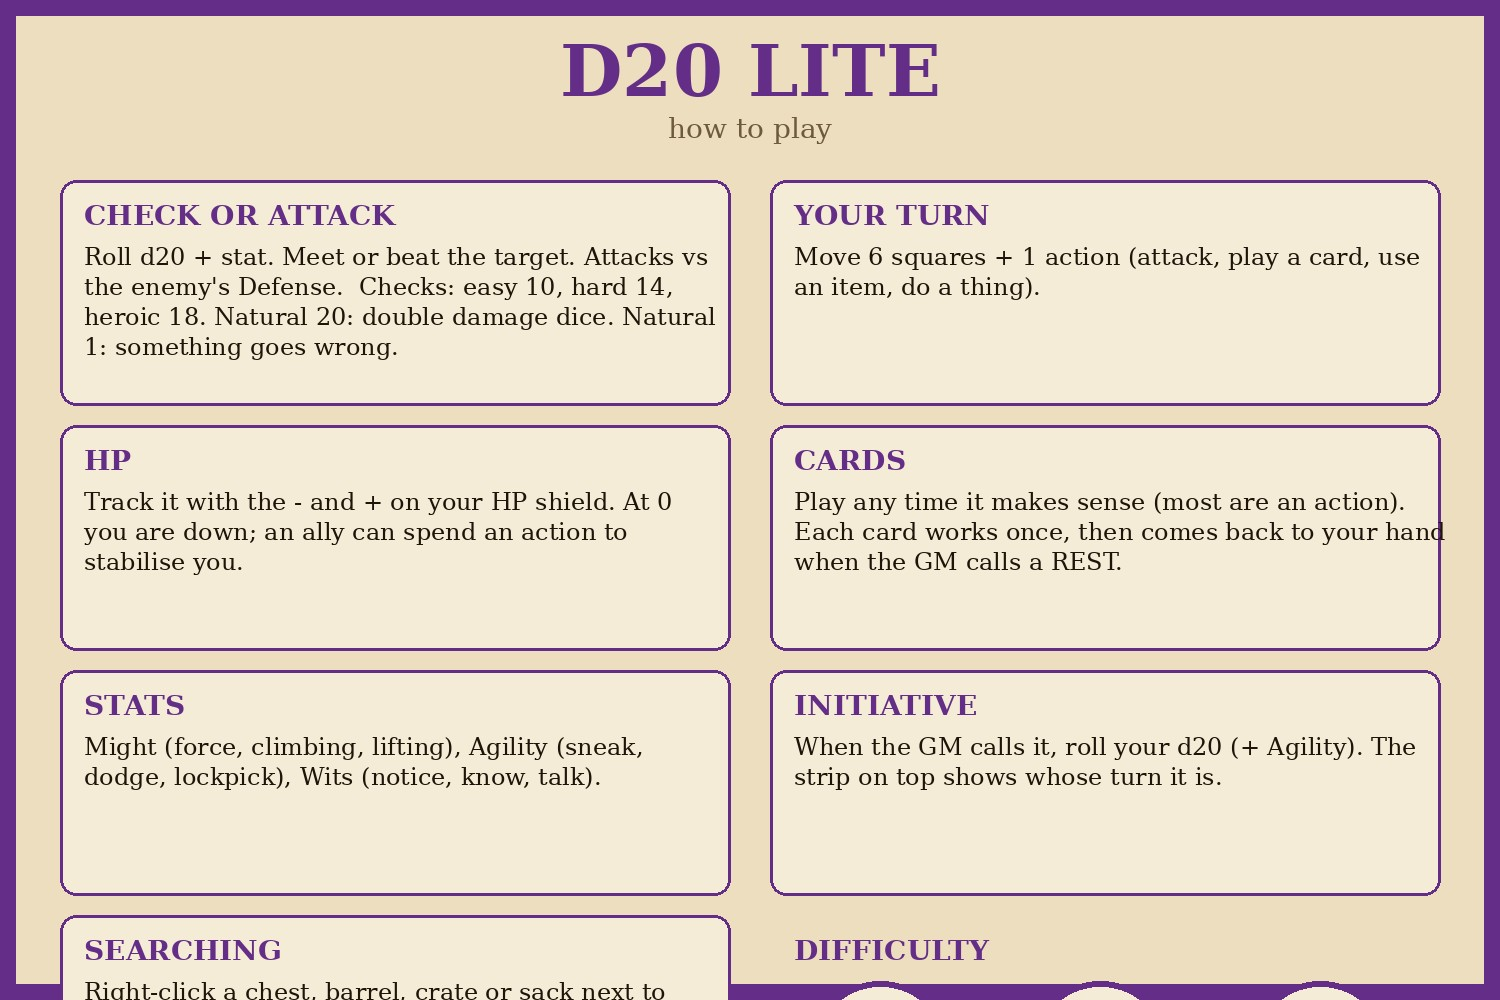
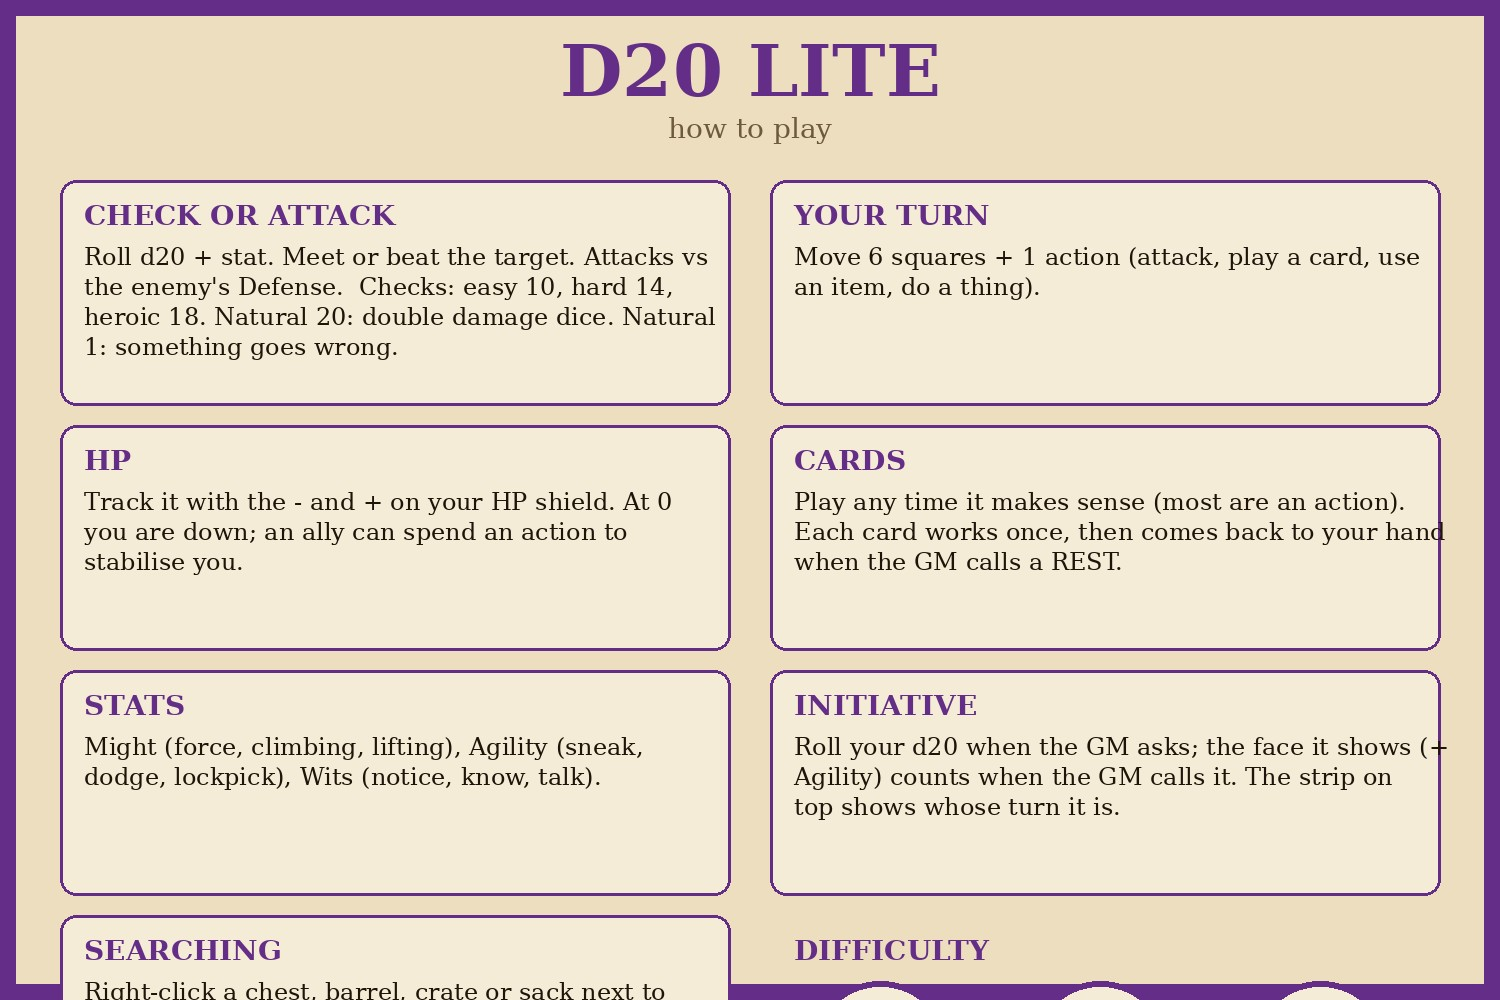
Initiative reads each hero's d20 as it lies

Changed region(s): [[0.5213, 0.713, 0.9507, 0.837]]

diff --git a/test_lua.py b/test_lua.py
@@ -509,9 +509,11 @@ assert (g.looked["Red"].position[1], g.looked["Red"].position[3]) == (0, 0)   # 
 # turn order: one roll per NPC kind ("Giant x2"), seated heroes rolled for when they don't roll in time
 for o in objs:
     o.tags["hidden"] = None
+red_d20 = next(iter(g.getObjectsWithTag("d20_Red").values())); red_d20.value = 17
 c.initiative()
 strip = g.UIattr["turnsText.value"]
-assert g.UIattr["turns.active"] == "true" and "Giant x2" in strip and to_py(c.DATA.heroes)["Red"]["short"] in strip and "waiting" not in strip, strip
+assert to_py(c.DATA.heroes)["Red"]["short"] + " (%d)" % (17 + to_py(c.DATA.heroes)["Red"]["agility"]) in strip, strip
+assert g.UIattr["turns.active"] == "true" and "Giant x2" in strip and to_py(c.DATA.heroes)["Red"]["short"] in strip, strip
 c.nextTurn(); assert "<b>" in g.UIattr["turnsText.value"] and any(o.lit for o in g.getObjects().values())
 c.endFight(); assert g.UIattr["turns.active"] == "false"
 c.setScene(2)

diff --git a/build.py b/build.py
@@ -513,7 +513,7 @@ def hero_objects(h, n, base):
         sheet,
         obj("Custom_Model", tf(), GUID=guid(c, "hp"), Nickname=f"{h['name']} HP", Locked=False, Tags=["kit", f"hp_{c}"],
             CustomMesh=mesh(base, "hp_plaque"), grid={"role": "hp", "color": c, "max": h["hp"]}),
-        obj("Die_20", tf(), GUID=guid(c, "d20"), Tags=["kit"], ColorDiffuse=colour, grid={"role": "d20", "color": c}),
+        obj("Die_20", tf(), GUID=guid(c, "d20"), Tags=["kit", f"d20_{c}"], ColorDiffuse=colour, grid={"role": "d20", "color": c}),
         obj("Deck", tf(rz=180.0), GUID=guid(c, "deck"), Nickname=f"{h['name']} cards", DeckIDs=ids,
             CustomDeck={str(n + 1): cdeck}, ContainedObjects=cards, Tags=["kit", f"card_{c}"], Hands=True,
             grid={"role": "deck", "color": c}),

diff --git a/content.py b/content.py
@@ -130,7 +130,8 @@ HP: track it with the - and + on your HP shield. At 0 you are down; an ally can 
 Cards: play any time it makes sense (most are an action). Each card works once,
   then comes back to your hand when the GM calls a REST.
 Stats: Might (force, climbing, lifting), Agility (sneak, dodge, lockpick), Wits (notice, know, talk).
-Initiative: when the GM calls it, roll your d20 (+ Agility). The strip on top shows whose turn it is.
+Initiative: roll your d20 when the GM asks; the face it shows (+ Agility) counts when the GM calls it.
+  The strip on top shows whose turn it is.
 Searching: right-click a chest, barrel, crate or sack next to your hero > Search. Once each."""
 
 # ---------------------------------------------------------------- npcs

diff --git a/GM_GUIDE.md b/GM_GUIDE.md
@@ -26,7 +26,8 @@ HP: track it with the - and + on your HP shield. At 0 you are down; an ally can 
 Cards: play any time it makes sense (most are an action). Each card works once,
   then comes back to your hand when the GM calls a REST.
 Stats: Might (force, climbing, lifting), Agility (sneak, dodge, lockpick), Wits (notice, know, talk).
-Initiative: when the GM calls it, roll your d20 (+ Agility). The strip on top shows whose turn it is.
+Initiative: roll your d20 when the GM asks; the face it shows (+ Agility) counts when the GM calls it.
+  The strip on top shows whose turn it is.
 Searching: right-click a chest, barrel, crate or sack next to your hero > Search. Once each.
 ```
 
